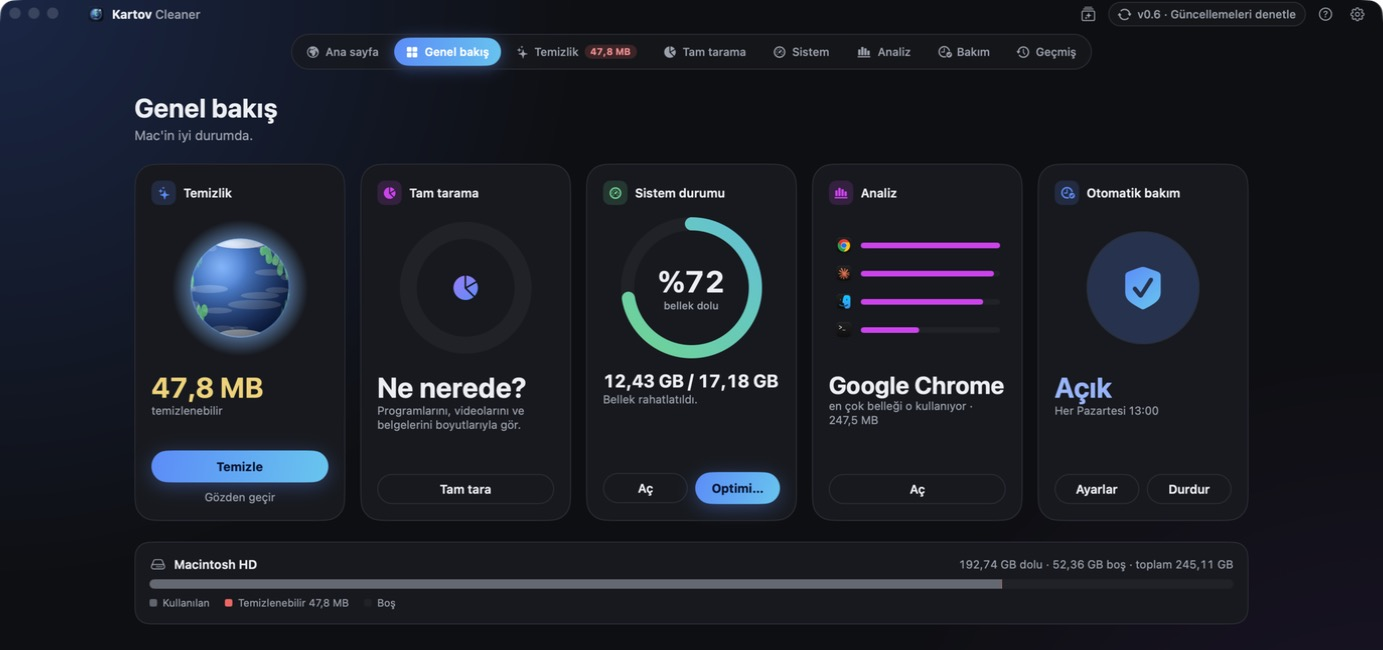
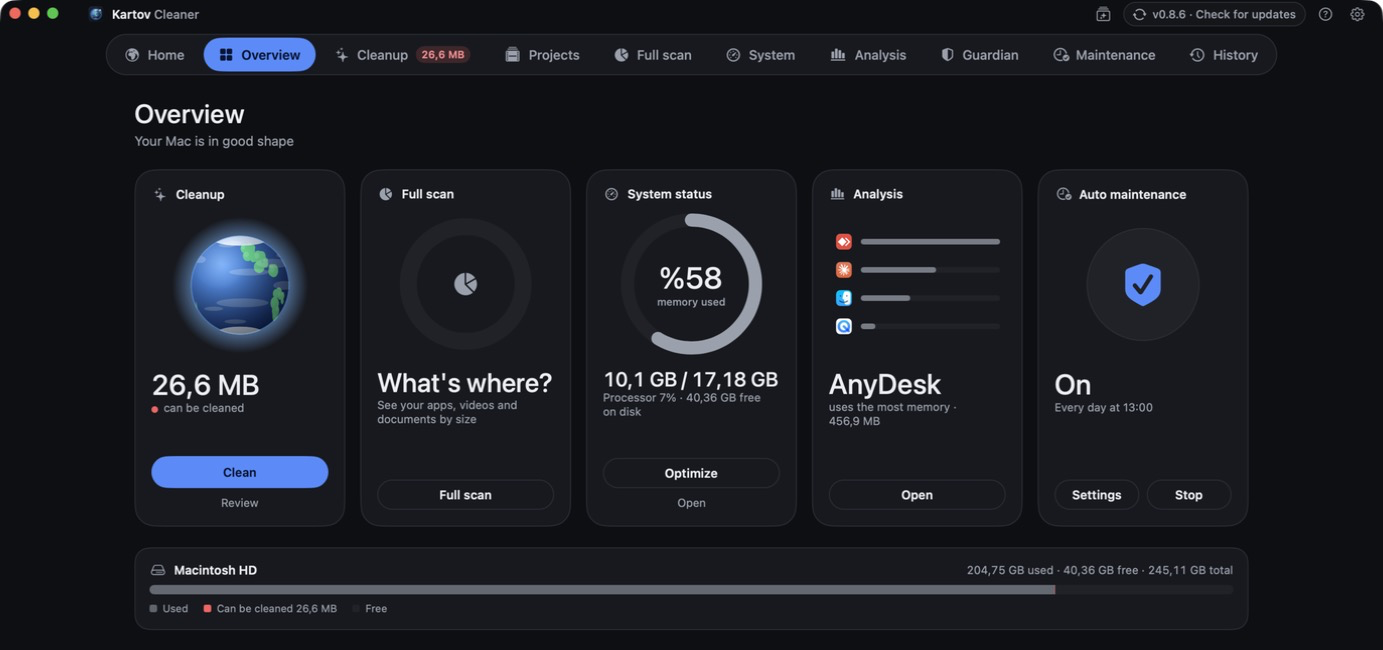
README: 0.8.4-0.8.6 features, new screenshots

diff --git a/README.md b/README.md
@@ -26,12 +26,15 @@
 - **Cleanup:** Removes caches from apps, browsers, creative tools (After Effects, Premiere, DaVinci Resolve) and developer tools, plus old logs, leftover macOS installers and System Data. You choose **Clean** or **Keep** for each app and see how much space you'll get back before anything happens.
 - **Projects (new in 0.8):** Finds your After Effects and Premiere Pro projects and shows what piled up next to each one: preview renders, media caches, auto-saves, proxies and Media Encoder leftovers. Projects you haven't saved in 30 to 180 days are flagged, and one click selects only the caches that rebuild themselves. Project files, media and renders are never offered; everything goes to the Trash. External disks can be added.
 - **Full scan:** Lists your apps, videos, images and documents by size. Sort them, multi-select, and move what you don't need to the Trash.
+- **Duplicates (0.8.4):** After a full scan, files whose contents are identical byte for byte are grouped, whatever their names. One copy of every group always stays; you pick which. Copies made with Finder's Duplicate share their data and free nothing, so they are marked and never suggested.
 - **Analysis:** Shows which apps are open and how much memory, CPU and disk each one uses, which ones you use most, and which you haven't opened in months. You can quit, force quit or uninstall them.
 - **System status:** Live CPU, memory, disk and battery. Free up memory in one click and trim the apps that start at login.
+- **No more password prompts (0.8.6):** freeing memory, refreshing the DNS cache and cleaning System Data need an administrator. Turn on *Don't ask for a password* once and macOS asks one last time, then never again for these jobs. Kartov never sees your password, and the switch turns it off again.
 - **Auto maintenance:** Cleans the categories you pick, on the day and time you choose. It never touches your personal files.
-- **Menu bar:** One click on the little globe cleans, optimizes, or does both.
+- **Menu bar:** One click on the little globe cleans, optimizes, or does both. It never empties the Trash.
 - **Updates:** Lets you know when a new version is out and installs it only if you say so.
-- **Announcements (0.8.1):** short news from the developer, read from [`announcements.json`](announcements.json) in this repository and shown once as a notification. No server, no tracking; can be turned off in Settings.
+- **Settings (0.8.5):** seven plain topics, one at a time. Every option says what it does in one sentence, and each topic shows how it stands before you open it.
+- **Announcements:** short news from the developer, read from [`announcements.json`](announcements.json) in this repository and shown once as a card inside the app. A card can carry a switch, so a new option can be turned on right there. No server, no tracking; can be turned off in Settings › Notifications.
 
 ### Guardian (new in 0.7)
 
@@ -49,31 +52,33 @@ Kartov now keeps an eye on your Mac in the background, once a minute. It only re
 
 ## Screenshots
 
-| Overview | Cleanup |
+| Overview | Settings |
 |:---:|:---:|
-| <img src="docs/screenshots/overview.png" alt="Overview"> | <img src="docs/screenshots/cleanup.png" alt="Cleanup"> |
-| **Analysis** | **System status** |
-| <img src="docs/screenshots/analysis.png" alt="Analysis"> | <img src="docs/screenshots/system.png" alt="System status"> |
+| <img src="docs/screenshots/overview.png" alt="Overview"> | <img src="docs/screenshots/settings.png" alt="Settings"> |
+| **System status** | **Don't ask for a password** |
+| <img src="docs/screenshots/system.png" alt="System status"> | <img src="docs/screenshots/permissions.png" alt="Settings, permissions and privacy"> |
 
 <p align="center">
   <img src="docs/screenshots/maintenance.png" width="860" alt="Auto maintenance"><br>
-  <sub>Auto maintenance · screenshots show the Turkish interface; the app follows your Mac's language (English, Türkçe, Deutsch, Español).</sub>
+  <sub>Auto maintenance · the app follows your Mac's language (English, Türkçe, Deutsch, Español) and can be switched in Settings.</sub>
 </p>
 
 ## Safety first
 
 - Scanning **never deletes anything**; it only looks.
 - Caches are deleted, and apps rebuild them when needed. Personal files, uninstalled apps and installers go to the **Trash**, and **History › Undo** brings them back in one click.
-- You are **always asked** before browsing history is cleared or the Trash is emptied.
+- You are **always asked** before browsing history is cleared, the Trash is emptied or System Data is cleaned. The one-click clean in the menu bar never touches the Trash; Auto maintenance empties it only if you choose the Trash there.
 - Caches of apps that are currently open are never touched.
 - The Photos library, iCloud Drive, Mail, Keychain and the inside of app bundles are off-limits in code.
-- Kartov **never sends your data anywhere.** Its only network request checks GitHub for new versions.
+- Kartov **never sends your data anywhere.** It only goes online to check GitHub for new versions and announcements.
+- *Don't ask for a password* is off until you turn it on. It installs a tiny helper that can do only four fixed jobs (free memory, refresh DNS, remove local Time Machine snapshots and an unfinished macOS update) and is checked by macOS's `visudo` before it is put in place. While it is on, other apps on your Mac can run those four jobs without a password too.
 
 ## Install
 
 1. Download `Kartov Cleaner x.x.dmg` from [Releases](../../releases/latest).
 2. Open the DMG and drag **Kartov Cleaner** into **Applications**.
 3. A short intro tour starts on first launch. Its last step asks for **Full Disk Access** (System Settings › Privacy & Security › Full Disk Access › turn on Kartov Cleaner). The app works without it, but some folders can't be scanned.
+4. Optional: in **Settings › Permissions and privacy**, turn on **Don't ask for a password** so memory and System Data jobs stop asking for your password.
 
 > **Seeing a "cannot be verified" warning?** Right-click the app and choose **Open**, or go to System Settings › Privacy & Security and click **Open Anyway**. The warning will go away once the app is signed with an Apple Developer ID.
 
